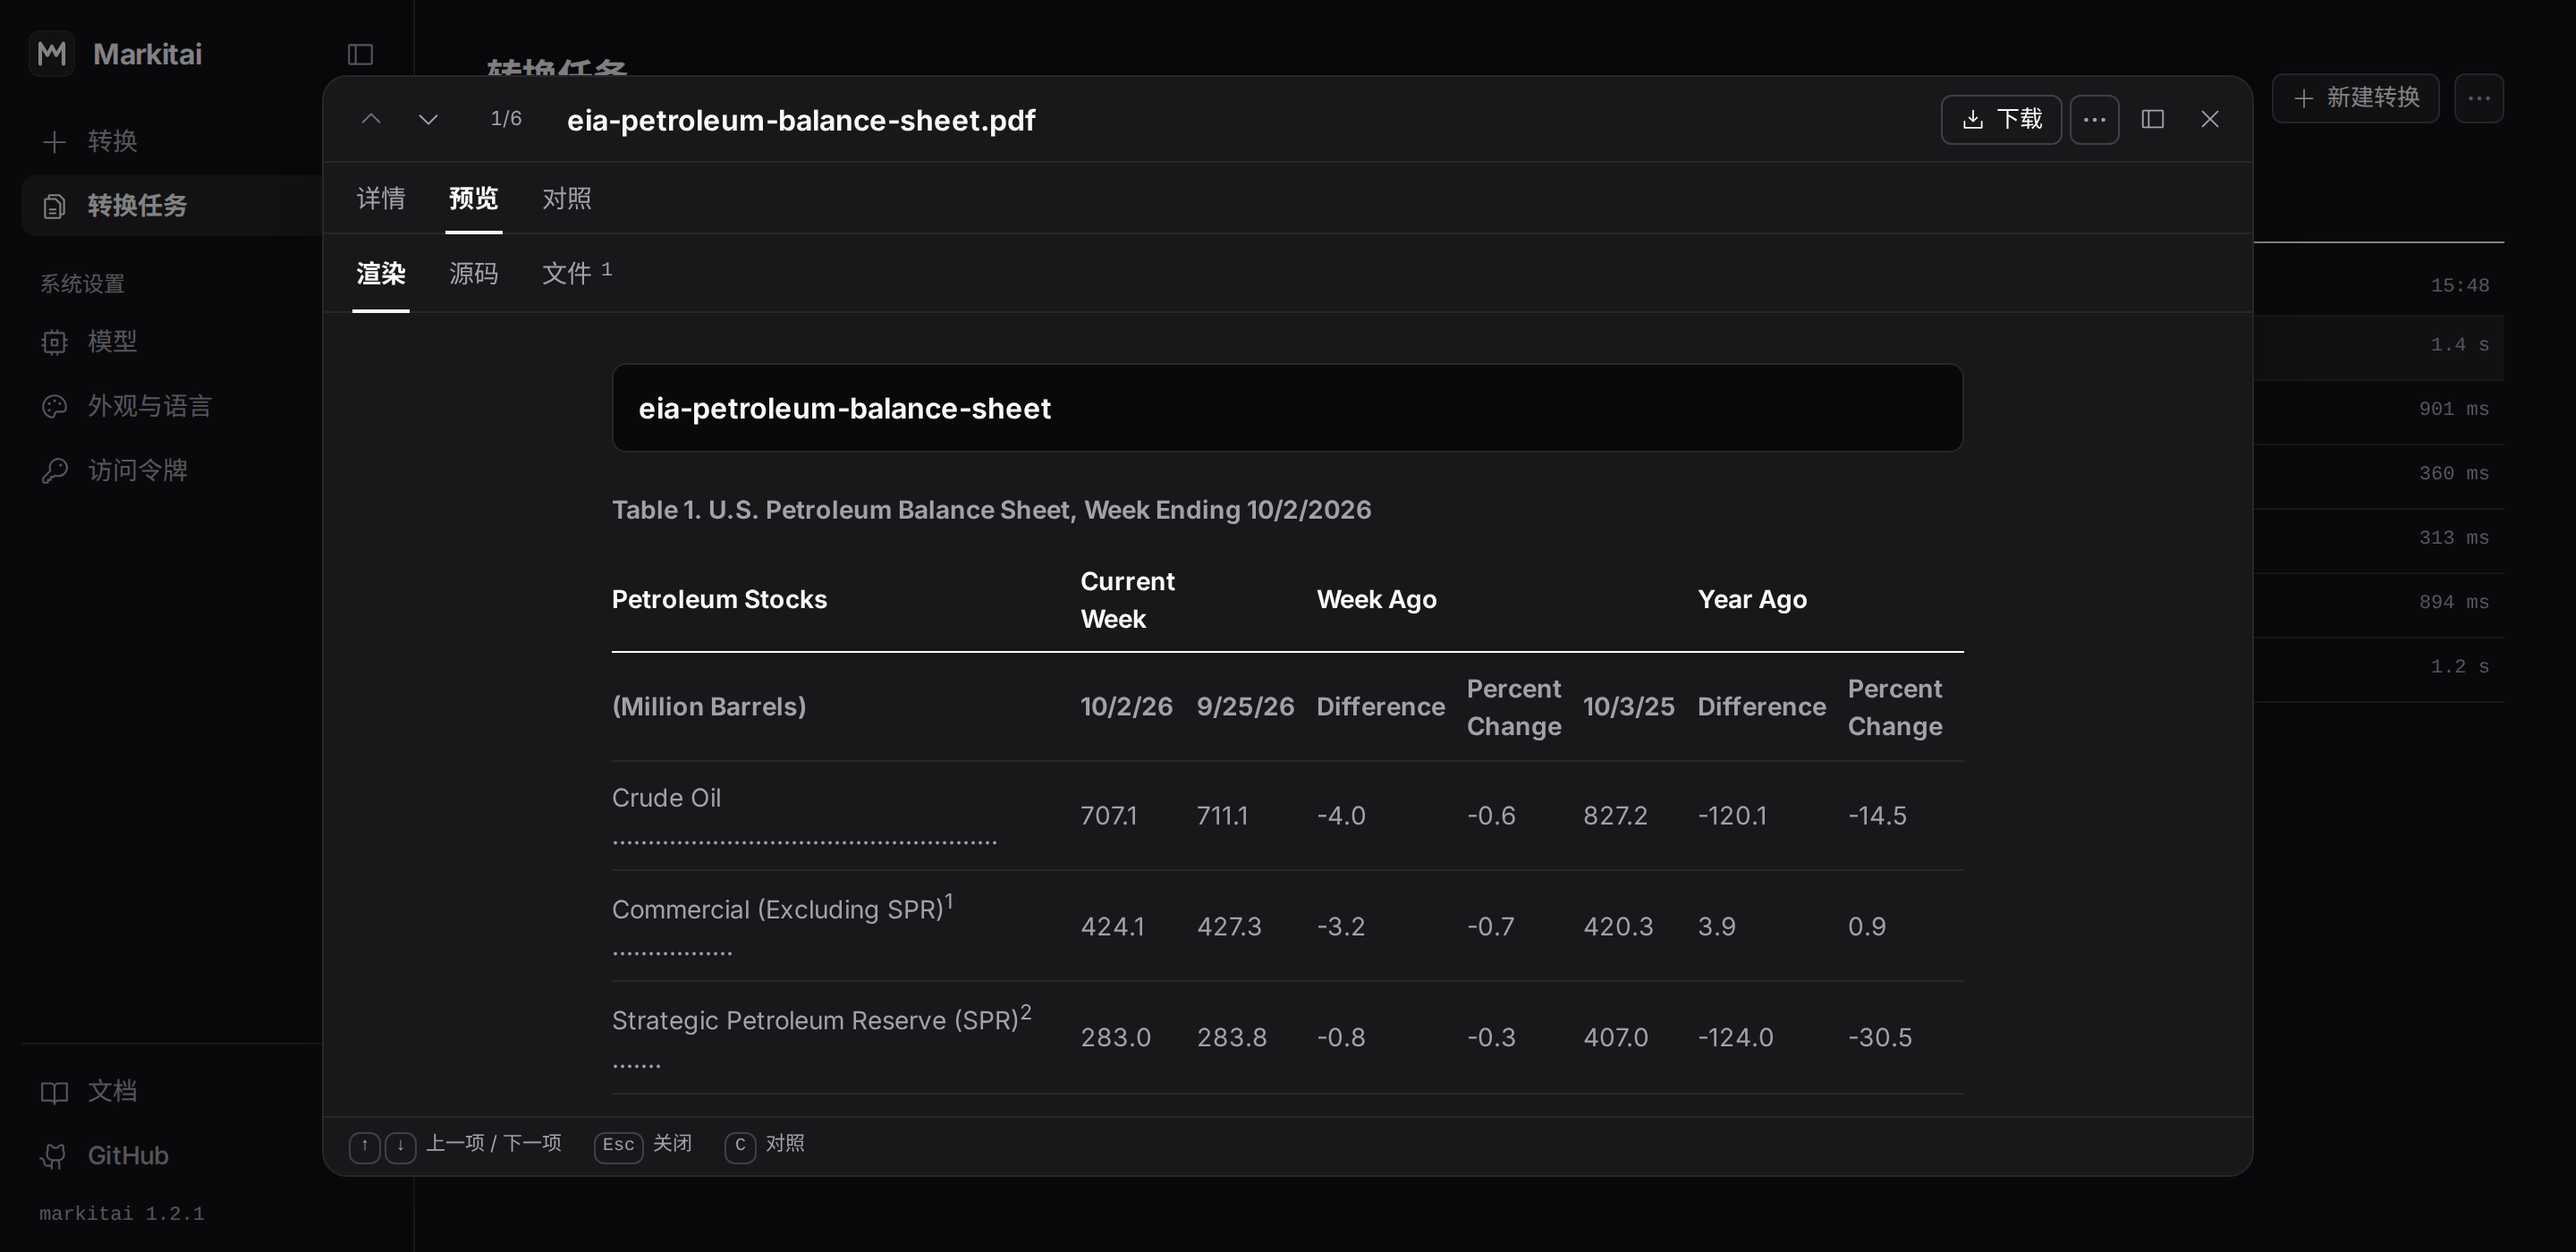
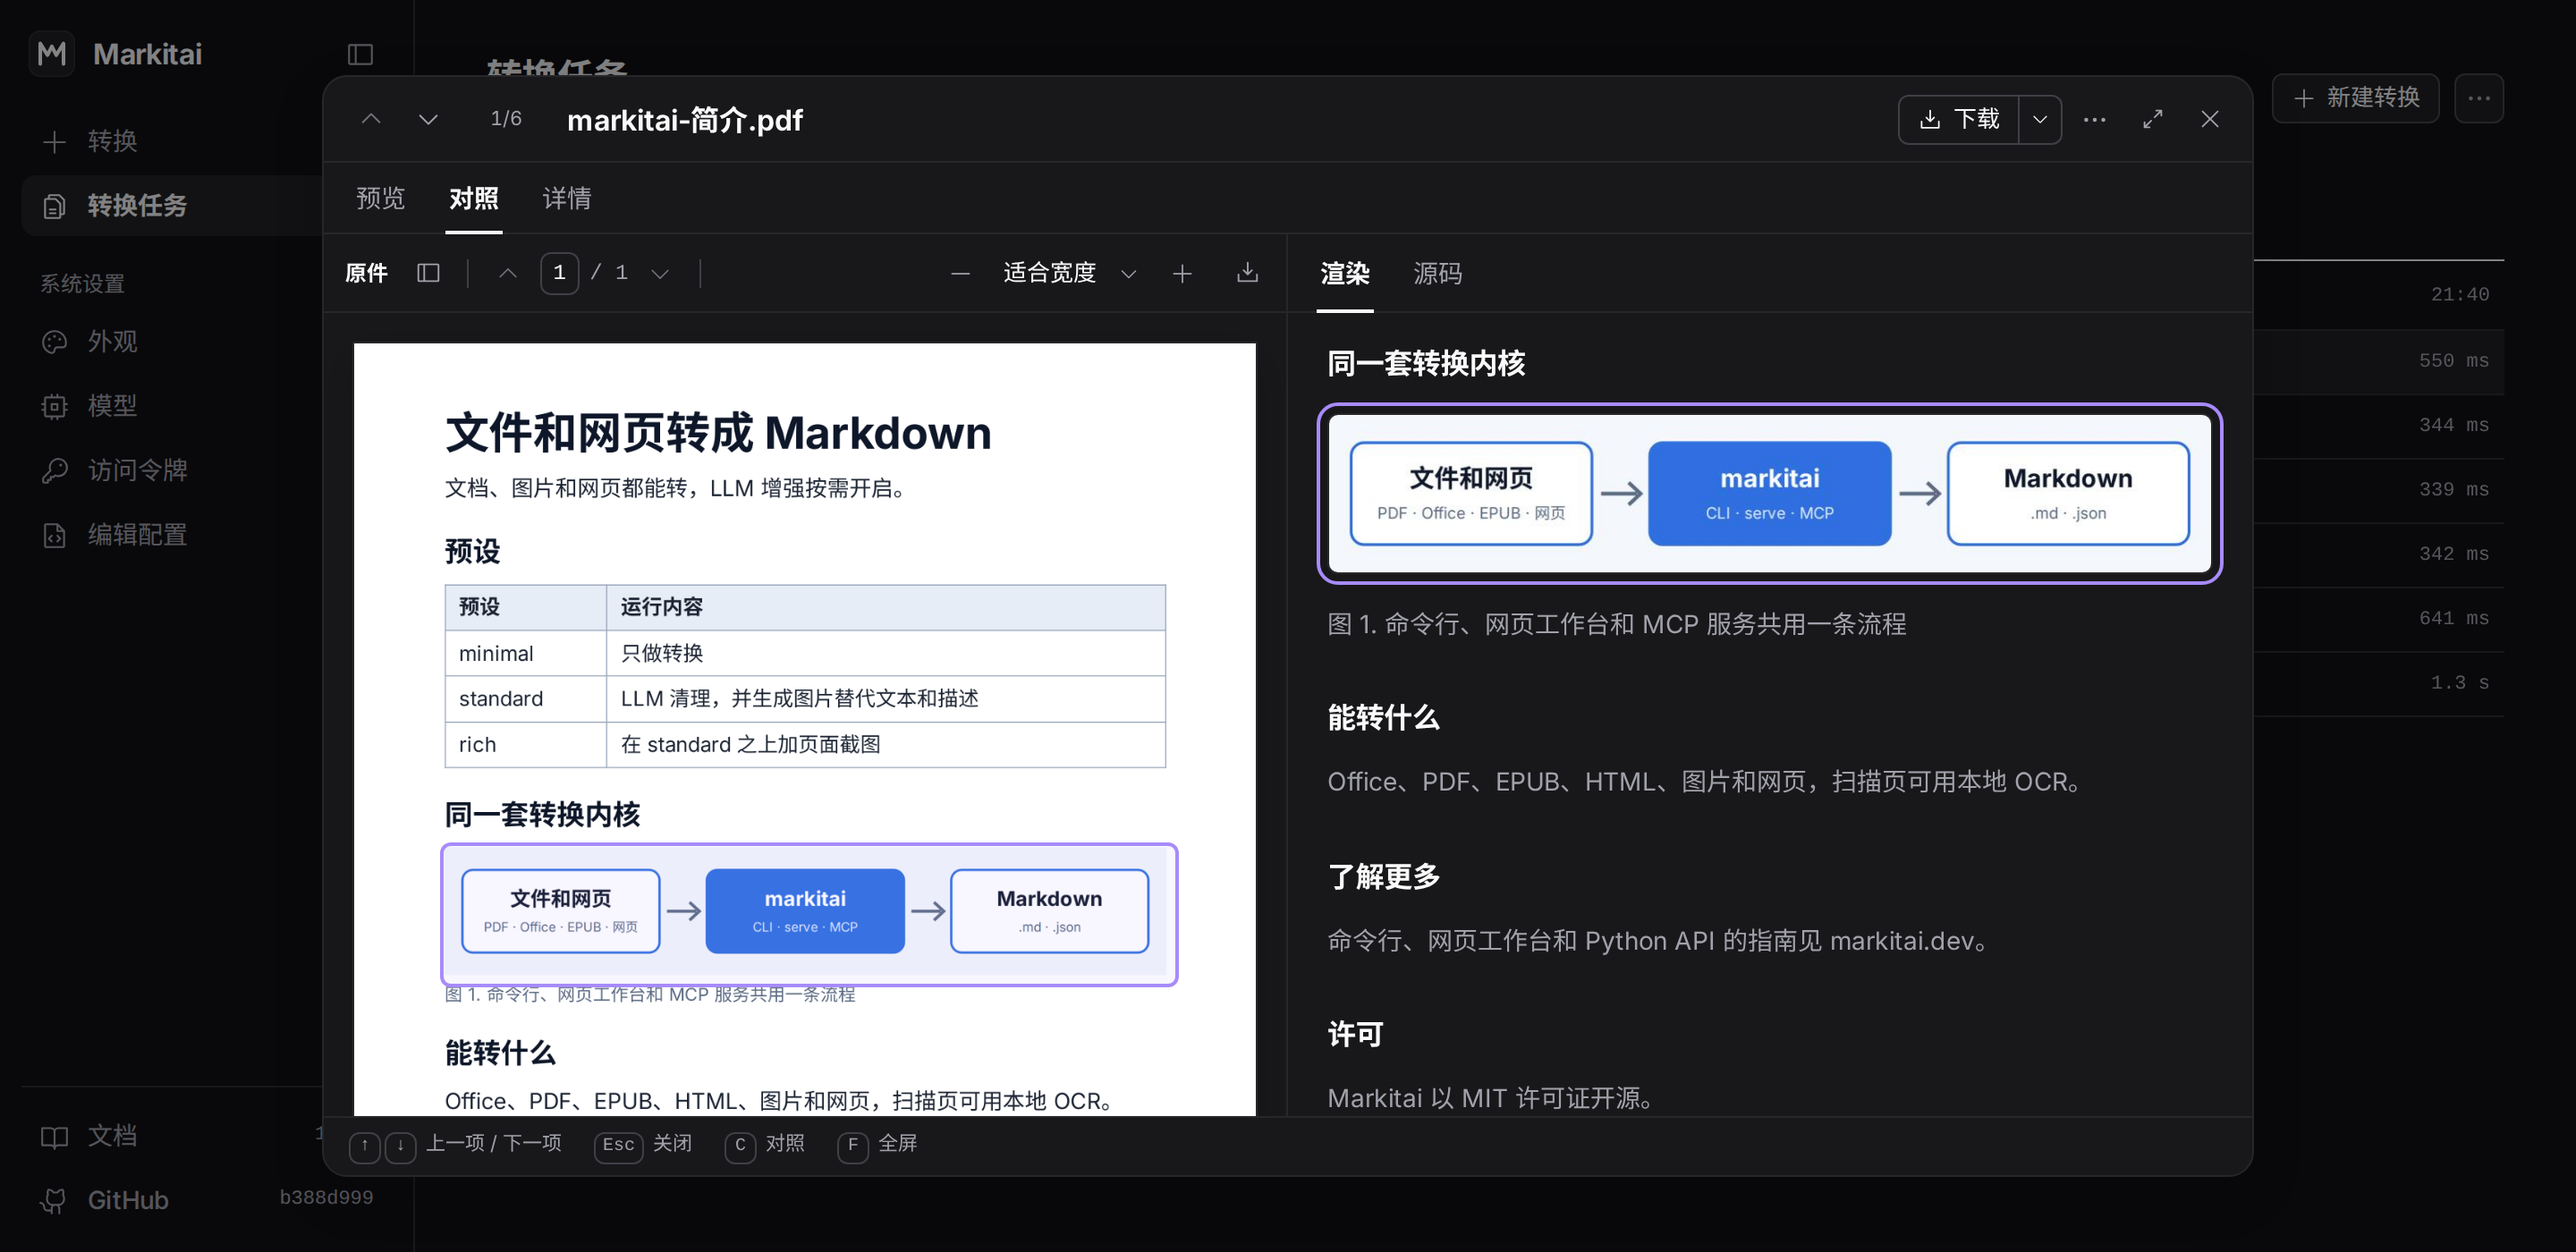
docs(website): workbench screenshots show Compare on a one-page report
The home page and serve guide screenshots (light and dark, English and
Chinese, 1440x700 at 2x, PNG and WebP) showed the workbench before 1.3.0
on a dense petroleum balance sheet whose table ran off the window. They
are retaken with scripts/website_shots.py (overview report, diagram
outlined) on the 1.3.0 workbench: the centred window over a list of six
finished conversions (PDF, DOCX, PPTX, XLSX, EPUB, web page), on
Compare, the report's page from its top on the left and its Markdown
from the "One conversion core" heading on the right, both outlining the
"Files and URLs -> markitai -> Markdown" diagram. The English shots show
markitai-at-a-glance.pdf in the English UI, the Chinese ones
markitai-简介.pdf in the Chinese UI. Alt texts (en, zh; home page and
serve guide) describe the new view.

Inputs, all safe to publish: the report is printed by the script from
this repository's own README, home page and documentation (MIT); the
other items are the Census Bureau's NST-EST2024-POP workbook (a U.S.
government work, author fields blanked), Project Gutenberg's Alice's
Adventures in Wonderland (public domain in the USA), the getting-started
guide and README intro built with pandoc, and
en.wikipedia.org/wiki/Markdown (CC BY-SA 4.0), of which only a timing
shows behind the window. The images hold no metadata chunks.

diff --git a/website/zh/index.md b/website/zh/index.md
@@ -21,11 +21,11 @@ hero:
   <p><code>markitai serve</code> 把同一套转换内核放进本地网页界面。拖入文件、粘贴 URL、看进度，对照原件逐条检查结果，再全部下载。</p>
   <picture class="home-shot-light">
     <source srcset="/workbench.zh.webp" type="image/webp" />
-    <img src="/workbench.zh.png" alt="markitai 网页工作台：一个已转换的 PDF 在窗口中打开，窗口居中于变暗的转换任务列表上方，位于「预览」标签，显示一张美国石油平衡表转成 Markdown 后的渲染效果。" width="1440" height="700" loading="lazy" />
+    <img src="/workbench.zh.png" alt="markitai 网页工作台：一个已转换的单页 PDF 在窗口中打开，窗口居中于变暗的转换任务列表上方，位于「对照」标签。左侧的原件页面和右侧的 Markdown 同时框出同一张图：文件和网页、markitai、Markdown。" width="1440" height="700" loading="lazy" />
   </picture>
   <picture class="home-shot-dark">
     <source srcset="/workbench.zh.dark.webp" type="image/webp" />
-    <img src="/workbench.zh.dark.png" alt="markitai 网页工作台：一个已转换的 PDF 在窗口中打开，窗口居中于变暗的转换任务列表上方，位于「预览」标签，显示一张美国石油平衡表转成 Markdown 后的渲染效果。" width="1440" height="700" loading="lazy" />
+    <img src="/workbench.zh.dark.png" alt="markitai 网页工作台：一个已转换的单页 PDF 在窗口中打开，窗口居中于变暗的转换任务列表上方，位于「对照」标签。左侧的原件页面和右侧的 Markdown 同时框出同一张图：文件和网页、markitai、Markdown。" width="1440" height="700" loading="lazy" />
   </picture>
   <p class="home-shot-link"><a href="/zh/guide/serve">了解网页工作台 <span aria-hidden="true">→</span></a></p>
 </section>

diff --git a/website/index.md b/website/index.md
@@ -21,11 +21,11 @@ hero:
   <p><code>markitai serve</code> puts the same conversion core behind a local web UI. Drop files in, paste URLs, watch progress, check each result next to its original, download everything.</p>
   <picture class="home-shot-light">
     <source srcset="/workbench.webp" type="image/webp" />
-    <img src="/workbench.png" alt="The markitai web workbench: a converted PDF open in a window centred over the dimmed list of conversions, on its Preview tab, showing the rendered Markdown of a U.S. petroleum balance sheet table." width="1440" height="700" loading="lazy" />
+    <img src="/workbench.png" alt="The markitai web workbench: a converted one-page PDF open in a window centred over the dimmed list of conversions, on its Compare tab. The original page on the left and its Markdown on the right both outline the same diagram: Files and URLs, markitai, Markdown." width="1440" height="700" loading="lazy" />
   </picture>
   <picture class="home-shot-dark">
     <source srcset="/workbench.dark.webp" type="image/webp" />
-    <img src="/workbench.dark.png" alt="The markitai web workbench: a converted PDF open in a window centred over the dimmed list of conversions, on its Preview tab, showing the rendered Markdown of a U.S. petroleum balance sheet table." width="1440" height="700" loading="lazy" />
+    <img src="/workbench.dark.png" alt="The markitai web workbench: a converted one-page PDF open in a window centred over the dimmed list of conversions, on its Compare tab. The original page on the left and its Markdown on the right both outline the same diagram: Files and URLs, markitai, Markdown." width="1440" height="700" loading="lazy" />
   </picture>
   <p class="home-shot-link"><a href="/guide/serve">Read about the web workspace <span aria-hidden="true">→</span></a></p>
 </section>

diff --git a/website/zh/guide/serve.md b/website/zh/guide/serve.md
@@ -4,8 +4,8 @@
 
 一切都在本机运行。任务和历史保存在磁盘上，除了你配置的抓取策略和 LLM 提供商，不会向外发送任何内容。
 
-![markitai 网页工作台：一个已转换的 PDF 在窗口中打开，窗口居中于变暗的转换任务列表上方，位于「预览」标签，显示一张美国石油平衡表转成 Markdown 后的渲染效果。](/workbench.zh.png){.light-only}
-![markitai 网页工作台：一个已转换的 PDF 在窗口中打开，窗口居中于变暗的转换任务列表上方，位于「预览」标签，显示一张美国石油平衡表转成 Markdown 后的渲染效果。](/workbench.zh.dark.png){.dark-only}
+![markitai 网页工作台：一个已转换的单页 PDF 在窗口中打开，窗口居中于变暗的转换任务列表上方，位于「对照」标签。左侧的原件页面和右侧的 Markdown 同时框出同一张图：文件和网页、markitai、Markdown。](/workbench.zh.png){.light-only}
+![markitai 网页工作台：一个已转换的单页 PDF 在窗口中打开，窗口居中于变暗的转换任务列表上方，位于「对照」标签。左侧的原件页面和右侧的 Markdown 同时框出同一张图：文件和网页、markitai、Markdown。](/workbench.zh.dark.png){.dark-only}
 
 ## 启动服务
 

diff --git a/website/guide/serve.md b/website/guide/serve.md
@@ -4,8 +4,8 @@
 
 Everything runs on your machine. Jobs and history live on disk, and nothing leaves the host except what you send to the fetch strategies and LLM providers you configure.
 
-![The markitai web workbench: a converted PDF open in a window centred over the dimmed list of conversions, on its Preview tab, showing the rendered Markdown of a U.S. petroleum balance sheet table.](/workbench.png){.light-only}
-![The markitai web workbench: a converted PDF open in a window centred over the dimmed list of conversions, on its Preview tab, showing the rendered Markdown of a U.S. petroleum balance sheet table.](/workbench.dark.png){.dark-only}
+![The markitai web workbench: a converted one-page PDF open in a window centred over the dimmed list of conversions, on its Compare tab. The original page on the left and its Markdown on the right both outline the same diagram: Files and URLs, markitai, Markdown.](/workbench.png){.light-only}
+![The markitai web workbench: a converted one-page PDF open in a window centred over the dimmed list of conversions, on its Compare tab. The original page on the left and its Markdown on the right both outline the same diagram: Files and URLs, markitai, Markdown.](/workbench.dark.png){.dark-only}
 
 ## Starting the Server
 
